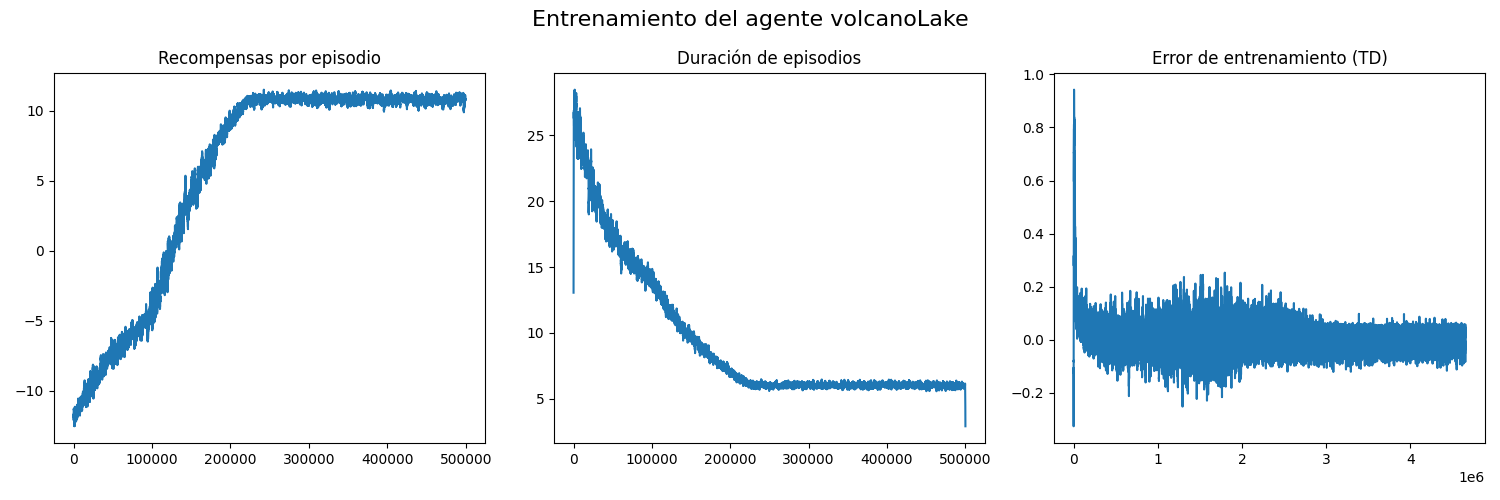
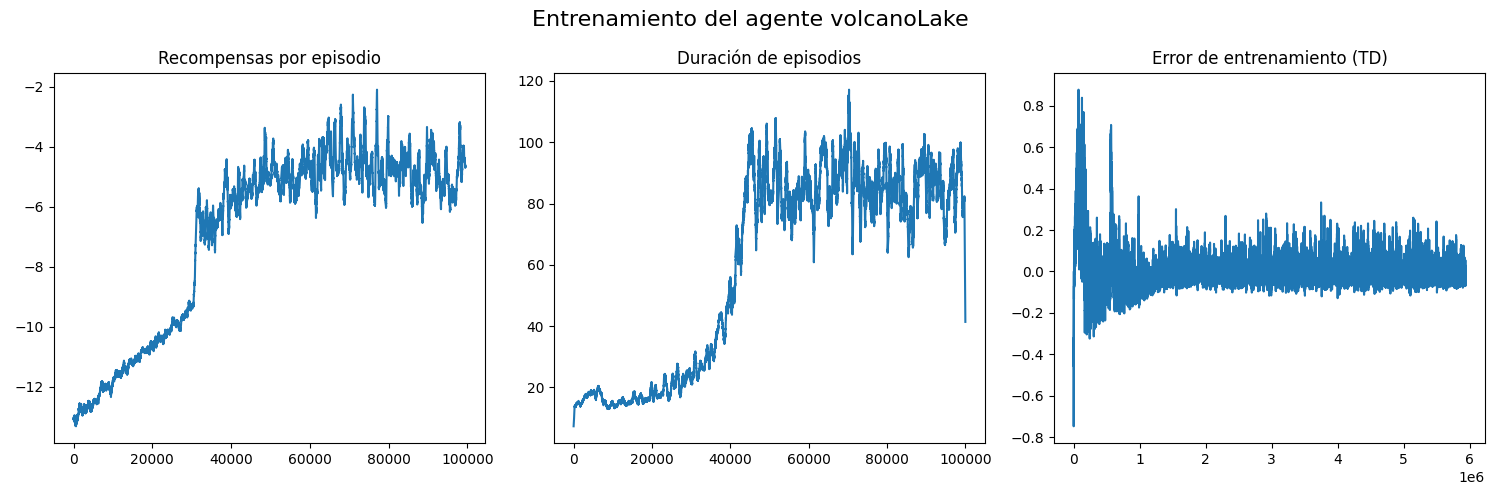
Añadido wrapper de vídeo usando pygame

diff --git a/VolcanoLake_v3/envs/volcano_lake_env.py b/VolcanoLake_v3/envs/volcano_lake_env.py
@@ -1,6 +1,7 @@
 import gymnasium as gym
 import numpy as np
 import os
+import pygame
 
 class VolcanoLakeEnv(gym.Env):
     """
@@ -33,7 +34,7 @@ class VolcanoLakeEnv(gym.Env):
     # Opcional: metadata para el modo render
     metadata = {"render_modes": ["human", "rgb_array"], "render_fps": 4}
 
-    def __init__(self, map_file_path=None):
+    def __init__(self, map_file_path=None, render_mode=None):
         super().__init__()
 
         # Mapa predeterminado
@@ -102,6 +103,33 @@ class VolcanoLakeEnv(gym.Env):
         
         # El estado actual del agente (se reiniciará en reset())
         self.agent_state = self.start_state
+        
+        # --- Configuración del renderizado ---
+        self.render_mode = render_mode # Almacenamos el modo
+        self.window = None # Ventana de Pygame (se crea en render())
+        self.clock = None # Reloj de Pygame
+        
+        # Tamaño de cada celda en píxeles
+        if self.nrows > 50 or self.ncols > 50:
+            self.cell_size = 16 
+        elif self.nrows > 20 or self.ncols > 20:
+            self.cell_size = 32
+        else:
+            self.cell_size = 64
+            
+        self.window_width = self.ncols * self.cell_size
+        self.window_height = self.nrows * self.cell_size
+        
+        # Definición de colores RGB
+        self.colors = {
+            'S': (60, 179, 113), # Verde (Inicio)
+            'G': (255, 215, 0), # Dorado (Meta)
+            'L': (220, 20, 60), # Rojo (Lava)
+            'W': (30, 144, 255), # Azul (Agua)
+            'T': (148, 0, 211), # Violeta (Tesoro)
+            '.': (205, 133, 63), # Marrón (Tierra)
+            'AGENT': (220, 220, 220) # Gris claro (Agente)
+        }
 
 
     def _pos_to_state(self, row, col):
@@ -220,21 +248,101 @@ class VolcanoLakeEnv(gym.Env):
 
     def render(self):
         """
-        (Futuro) Aquí iría la lógica de Pygame.
-        Por ahora, podemos imprimir el mapa.
+        Renderiza el entorno VolcanoLake usando Pygame.
+    
+        Comportamiento según el modo de renderizado:
+        - "human": Muestra la ventana gráfica en pantalla para visualización interactiva
+        - "rgb_array": Devuelve un array NumPy con los píxeles para grabación de video
+        - None: No renderiza nada (modo silencioso)
+    
+        El renderizado incluye:
+        - Todas las casillas del mapa con sus colores correspondientes
+        - El agente representado como un rectángulo gris claro
+    
+        Returns:
+        numpy.ndarray or None: Array de píxeles (alto, ancho, 3) si mode="rgb_array", 
+                              None en caso contrario
         """
-        # Creamos una copia para mostrar al agente
-        render_desc = np.copy(self.current_desc)
+        if self.render_mode is None:
+            return
+        
+        if self.window is None:
+            # Solo se inicializa si se llama a render() por primera vez
+            pygame.init()
+            pygame.display.set_caption("VolcanoLake_v3")
+            
+            if self.render_mode == "human":
+                # Creamos una ventana visible
+                self.window = pygame.display.set_mode((self.window_width, self.window_height))
+            elif self.render_mode == "rgb_array":
+                # Creamos una superficie oculta 
+                self.window = pygame.Surface((self.window_width, self.window_height))
+            
+        if self.clock is None:
+            self.clock = pygame.time.Clock()
+            
+        # --- Lógica de dibujado ---
+        
+        # Creamos un lienzo (Canvas) para dibujar
+        canvas = pygame.Surface((self.window_width, self.window_height))
+        canvas.fill((255, 255, 255)) # Fondo blanco por si acaso
+
+        # Dibujamos todas las casillas del mapa
+        for r in range(self.nrows):
+            for c in range(self.ncols):
+                tile_type = self.current_desc[r, c]
+                color = self.colors.get(tile_type, (0, 0, 0)) # Negro si hay error
+                
+                pygame.draw.rect(
+                    canvas,
+                    color,
+                    (c * self.cell_size, r * self.cell_size, self.cell_size, self.cell_size)
+                )
+
+        # Dibujamos al agente encima
         agent_row, agent_col = self._state_to_pos(self.agent_state)
+        pygame.draw.rect(
+            canvas,
+            self.colors['AGENT'],
+            (agent_col * self.cell_size, agent_row * self.cell_size, self.cell_size, self.cell_size)
+        )
+
+        # --- Lógica de salida ---
         
-        # Marcamos al agente con 'A'
-        # (Podríamos usar colores ANSI si quisiéramos)
-        render_desc[agent_row, agent_col] = 'A'
-        
-        print("\n")
-        for row in render_desc:
-            print(" ".join(row))
+        if self.render_mode == "human":
+            # Si es modo "human", copiamos el lienzo a la ventana
+            self.window.blit(canvas, (0, 0))
+            pygame.event.pump()
+            pygame.display.update()
+            
+            # Controlamos los FPS
+            self.clock.tick(self.metadata["render_fps"])
+            
+        elif self.render_mode == "rgb_array":
+            # Si es "rgb_array", copiamos el lienzo a la superficie oculta
+            self.window.blit(canvas, (0, 0))
+            
+            # Devolvemos el contenido como un array NumPy
+            # Transponemos de (ancho, alto, 3) a (alto, ancho, 3)
+            return np.transpose(
+                pygame.surfarray.array3d(self.window), (1, 0, 2)
+            )
+            
 
     def close(self):
-        """(Futuro) Limpieza de recursos de Pygame."""
-        pass
+        """
+        Limpia y cierra todos los recursos de Pygame.
+    
+        Es importante llamar a esta función al final del entrenamiento o uso
+        para liberar memoria y evitar problemas con múltiples inicializaciones.
+    
+        Acciones realizadas:
+        - Cierra la ventana de pygame (si existe)
+        - Cierra pygame completamente
+        - Resetea las variables de ventana y reloj a None
+        """
+        if self.window is not None:
+            pygame.display.quit()
+            pygame.quit()
+            self.window = None # Importante para reiniciar
+            self.clock = None

diff --git a/VolcanoLake_v3/training/train_agent.py b/VolcanoLake_v3/training/train_agent.py
@@ -1,8 +1,13 @@
 import gymnasium as gym
 from tqdm import tqdm
+import os
 
 from envs.volcano_lake_env import VolcanoLakeEnv
 from agent.qlearning_agent import VolcanoLakeAgent          
+
+# Obtener directorio del proyecto (VolcanoLake_v3)
+current_dir = os.path.dirname(os.path.abspath(__file__)) # training/
+project_root = os.path.dirname(current_dir) # VolcanoLake_v3/
 
 # Registro del entorno personalizado en gymnasium
 gym.register(
@@ -26,10 +31,18 @@ def train_volcanoLake_agent(n_episodes, map_path, learning_rate, start_epsilon, 
     Returns:
         tuple: (entorno, agente) entrenados
     """
+    # Crear carpeta de videos dentro de VolcanoLake_v3
+    videos_dir = os.path.join(project_root, "videos")
+    os.makedirs(videos_dir, exist_ok=True)
     
-    env = VolcanoLakeEnv(map_file_path=map_path)
-    
+    env = VolcanoLakeEnv(map_file_path=map_path, render_mode="rgb_array")
+        
     # ---- Wrappers ----
+    env = gym.wrappers.RecordVideo(
+        env, 
+        video_folder = videos_dir,
+        episode_trigger = lambda ep: ep == n_episodes - 1
+    )
     env = gym.wrappers.RecordEpisodeStatistics(env, buffer_length=n_episodes)
 
 

diff --git a/VolcanoLake_v3/main.py b/VolcanoLake_v3/main.py
@@ -8,8 +8,8 @@ if __name__ == "__main__":
     # ==================== CONFIGURACIÓN DE PARÁMETROS ====================
 
     # Parametros del entrenamiento
-    N_EPISODES = 500_000
-    MAP_FILE = "VolcanoLake_v3/maps/map_5x5.csv"
+    N_EPISODES = 100_000
+    MAP_FILE = "VolcanoLake_v3/maps/map_25x25.csv"
     
     #Parámetros del algoritmo Q-Learning
     LEARNING_RATE = 0.1
